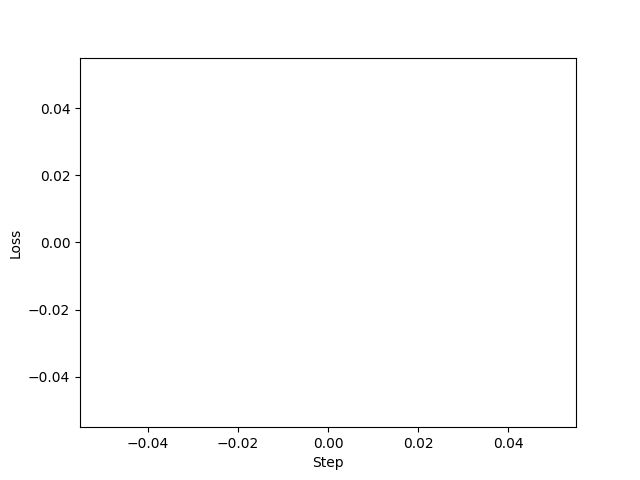
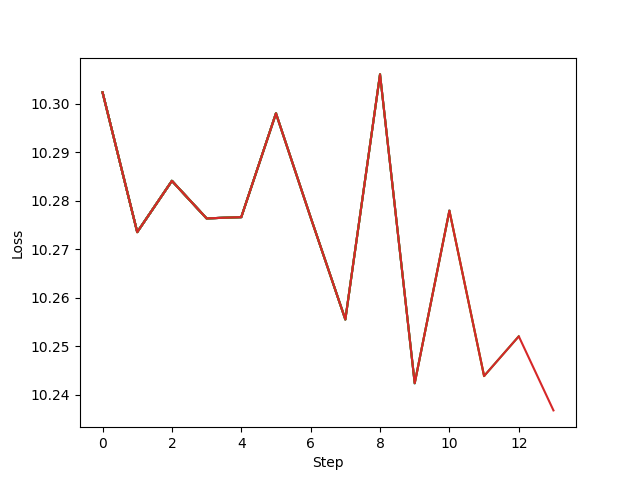
gets line plot working

diff --git a/produce_models.py b/produce_models.py
@@ -7,6 +7,7 @@ from confluent_kafka.serialization import StringSerializer
 
 from constants import WAIT_TIME_ON_BUFFER_ERROR, MODEL_TOPIC_NAME
 from helpers import pprinter, buffer_too_full
+from plot_losses import plot_losses
 
 PROGRAM_NAME = "produce_models.py"
 printer = pprinter(PROGRAM_NAME)
@@ -30,7 +31,6 @@ def run_model_producer(conn: Pipe) -> None:
         'bootstrap.servers': 'localhost:9092',
         'message.max.bytes': 15000000,
     }
-
     producer = Producer(producer_config)
     serialize_str = StringSerializer()
 
@@ -38,6 +38,7 @@ def run_model_producer(conn: Pipe) -> None:
     printer("Model producer is waiting for initial model...")
     _ = conn.poll(timeout=None)
     printer("Model producer received initial model.")
+    losses = []
 
     while True:
         try:
@@ -50,10 +51,11 @@ def run_model_producer(conn: Pipe) -> None:
             # Get the model from the pipe
             model = conn.recv()
             printer("Model producer received an updated model...")
-
-            # Confirm model has been updated
-            # if not model.updated:
-            #     continue
+            """
+            PLOT LOSS
+            """
+            losses.append(model.eval_for_plot(batch_size=32))
+            plot_losses(losses)
             """
             SEND UPDATED MODEL
             """
@@ -68,6 +70,7 @@ def run_model_producer(conn: Pipe) -> None:
                                  callback=ack)
                 producer.poll(0)  # Trigger queue cleaning
                 model.updated = False
+
         except BufferError:
             printer("BufferError encountered. Waiting for buffer to clear...")
             while buffer_too_full(producer=p):

diff --git a/lstm_model.py b/lstm_model.py
@@ -23,7 +23,6 @@ class LSTM(torch.nn.Module):
         self.step_counter = 0
         self.text_generator = TextGenerator(path_to_text=path_to_text)
         self.loss_fn = torch.nn.CrossEntropyLoss()
-        self.losses = []
 
         # Define layers
         self.embedding = torch.nn.Embedding(self.vocab_size, self.hidden_size)
@@ -92,7 +91,7 @@ class LSTM(torch.nn.Module):
         text_ids = self.tokenizer.convert_tokens_to_ids(text)
         return torch.LongTensor([text_ids])
 
-    def eval_for_plot(self, batch_size: int) -> None:
+    def eval_for_plot(self, batch_size: int) -> float:
         """
         Evaluates the model for Tensorboard
         """
@@ -105,4 +104,4 @@ class LSTM(torch.nn.Module):
             loss += self.loss_fn(logits, target).item()
 
         # Compute average loss and send to writer
-        self.losses.append(loss / batch_size)
+        return loss / batch_size
